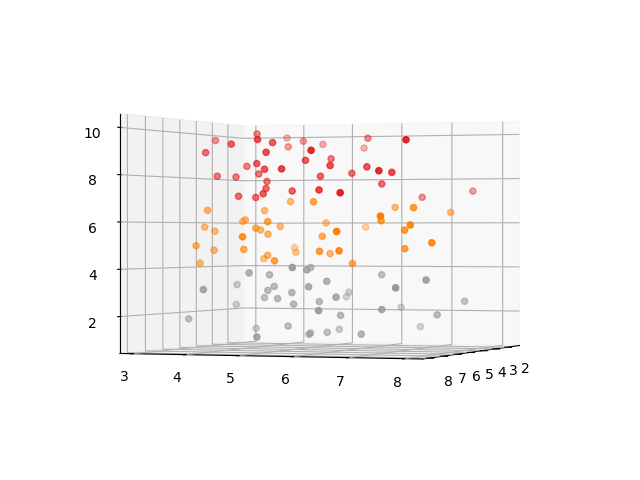
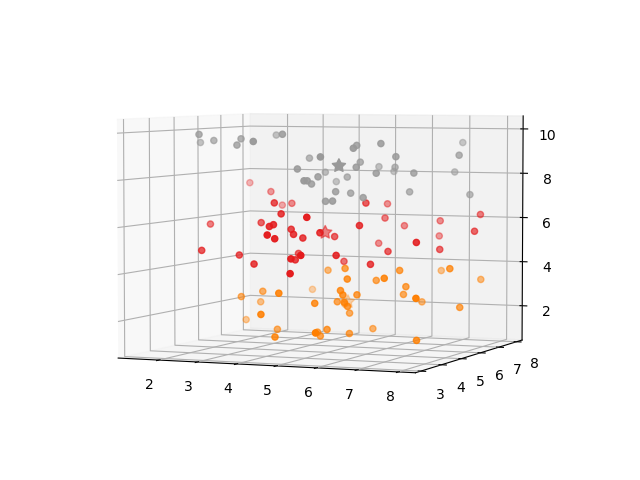
Update

diff --git a/fcm.py b/fcm.py
@@ -4,7 +4,6 @@ from matplotlib import pyplot as plt
 import pandas as pd
 from mpl_toolkits.mplot3d import Axes3D
 
-n_samples = 3000
 
 df = pd.read_excel('120_data.xlsx', header=None)
 X = df.to_numpy()
@@ -16,9 +15,11 @@ fcm.fit(X)
 # outputs
 fcm_centers = fcm.centers
 fcm_labels = fcm.predict(X)
+print('fcm_centers:\n', fcm_centers)
 
 # plot result
 fig = plt.figure()
 ax = Axes3D(fig)
 ax.scatter(X[:, 0], X[:, 1], X[:, 2], c=fcm_labels, cmap='Set1')
+ax.scatter(fcm_centers[:, 0], fcm_centers[:, 1], fcm_centers[:, 2], c='b', marker=(5, 1), s=100)
 plt.show()

diff --git a/KMeans.py b/KMeans.py
@@ -13,12 +13,12 @@ kmeans_fit = cluster.KMeans(n_clusters = 3).fit(X)
 
 # 印出分群結果
 cluster_labels = kmeans_fit.labels_
-# print("分群結果：")
-# print(cluster_labels)
-# print("---")
+kmeans_centers = kmeans_fit.cluster_centers_
+print('kmeans_centers:\n', kmeans_centers)
 
 # plot
 fig = plt.figure()
 ax = Axes3D(fig)
 ax.scatter(X[:, 0], X[:, 1], X[:, 2], c=cluster_labels, cmap='Set1')
+ax.scatter(kmeans_centers[:, 0], kmeans_centers[:, 1], kmeans_centers[:, 2], c='b', marker=(5, 1), cmap='Set1', s=100)
 plt.show()
